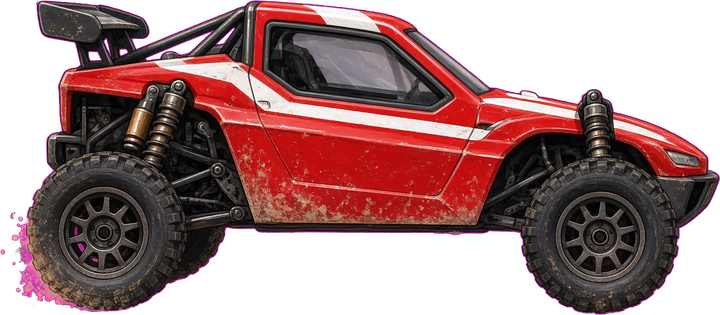
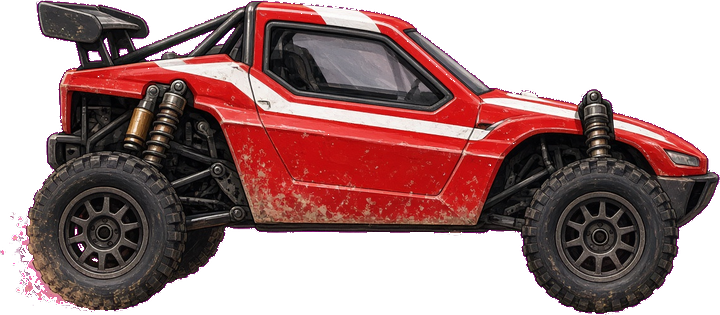
Fix RC Rally wheels (opaque/symmetric from photo), remove lock beam, restore dirt-follow tilt
Cache-bust ?v=20260925wheels2. RCRallyJump only.

diff --git a/games/RCRallyJump/engine.js b/games/RCRallyJump/engine.js
@@ -1,4 +1,4 @@
-const VERSION = "3.8";
+const VERSION = "3.9";
 const VIEW_W = 960;
 const VIEW_H = 540;
 const PLAYER_X = 168;
@@ -28,7 +28,7 @@ function wheelSpec(ix, iy, imgR) {
   };
 }
 const REAR = wheelSpec(100, 232, 82);
-const FRONT = wheelSpec(600, 234, 80);
+const FRONT = wheelSpec(600, 234, 82);
 const WHEELS = [REAR, FRONT];
 const CRAWLER_W = 1440;
 const CRAWLER_H = 630;
@@ -172,6 +172,16 @@ function rampLift(sim, worldX) {
 }
 function surfaceY(sim, worldX) {
   return groundY(worldX) - rampLift(sim, worldX);
+}
+function surfacePitchDeg(sim) {
+  // Line Rider-style: pitch of dirt under the two contact patches (degrees, nose-up negative in canvas Y-down).
+  const g0 = wheelGeom(sim, 0);
+  const g1 = wheelGeom(sim, 1);
+  const x0 = sim.scroll + PLAYER_X + CAR_W / 2 + g0.lx;
+  const x1 = sim.scroll + PLAYER_X + CAR_W / 2 + g1.lx;
+  const y0 = surfaceY(sim, x0);
+  const y1 = surfaceY(sim, x1);
+  return Math.atan2(y1 - y0, Math.max(8, x1 - x0)) * 180 / Math.PI;
 }
 function createSim(best = 0) {
   const sim = {
@@ -494,16 +504,28 @@ function stepChassis(sim, dt, input) {
     if (sim.vy > 0) sim.vy = Math.min(sim.vy * 0.2, 80);
     sim.vy -= Math.min(lift, 6) * 22;
   }
+  // Terrain pitch (Line Rider): when wheels kiss dirt, lean with the surface; aim still steers in air / on dirt.
+  const pitch = contacts > 0 ? surfacePitchDeg(sim) : 0;
   if (aiming) {
     const err = wrapDeg(input.aim - sim.rot);
-    sim.av += clamp(err * 14 - sim.av * 5, -520, 520) * dt;
-    if (contacts > 0) sim.av *= Math.exp(-dt * 1.6);
+    sim.av += clamp(err * 16 - sim.av * 4.2, -560, 560) * dt;
+    if (contacts > 0) {
+      // Blend a little track camber in so aiming on dirt still feels planted.
+      const camber = wrapDeg(pitch - sim.rot);
+      sim.av += clamp(camber * 6 - sim.av * 0.8, -180, 180) * dt;
+      sim.av *= Math.exp(-dt * 1.1);
+    }
   } else if (contacts === 0) {
     const ang = wrapDeg(sim.rot);
     if (Math.abs(ang) < 85) sim.av += (-ang * 48 - sim.av * 13) * dt;
     else sim.av *= Math.exp(-dt * 1.4);
   } else {
-    sim.av *= Math.exp(-dt * (contacts === 2 ? 8 : 2.4));
+    // Follow the dirt curve / off-camber instead of freezing flat.
+    const err = wrapDeg(pitch - sim.rot);
+    const grip = contacts === 2 ? 1 : 0.55;
+    sim.av += clamp(err * (22 * grip) - sim.av * (3.2 * grip), -420, 420) * dt;
+    // Soft settle — keep some lean authority (was exp*8 which killed tilt).
+    sim.av *= Math.exp(-dt * (contacts === 2 ? 3.2 : 1.6));
   }
   sim.av = clamp(sim.av, -360, 360);
   sim.rot = wrapDeg(sim.rot + sim.av * dt);
@@ -512,6 +534,18 @@ function stepChassis(sim, dt, input) {
     return true;
   }
   sim.grounded = contacts > 0;
+  if (contacts === 2 && !aiming) {
+    // Settle chassis onto both contact patches so it rides the dirt instead of skating flat.
+    const g0 = wheelGeom(sim, 0);
+    const g1 = wheelGeom(sim, 1);
+    const p0 = wheelWorld(sim, g0);
+    const p1 = wheelWorld(sim, g1);
+    const want0 = surfaceY(sim, p0.x) - g0.r;
+    const want1 = surfaceY(sim, p1.x) - g1.r;
+    const wantY = (want0 + want1) * 0.5 - CAR_H / 2;
+    sim.y += (wantY - sim.y) * Math.min(1, dt * 14);
+    if (sim.vy > 0) sim.vy *= 0.35;
+  }
   return false;
 }
 function wheelWorld(sim, w) {
@@ -539,10 +573,13 @@ function coupleWheels(sim, dt) {
     loaded = true;
     const R = Math.max(4, g.r);
     const I = 0.28 * R * R;
+    const targetOmega = sim.speed / R;
     const slip = sim.speed - sim.wheelOmega[i] * R;
     const force = clamp(slip * load / 0.72, -260, 260);
     sim.speed -= force * dt * 0.2;
+    // Pull toward rolling contact so both wheels spin in sync with road speed (symmetric animation).
     sim.wheelOmega[i] += force * R / I * dt;
+    sim.wheelOmega[i] += (targetOmega - sim.wheelOmega[i]) * Math.min(1, dt * (9 * load));
     if (i === 0) sim.speed += (cruise - sim.speed) * dt * (sim.recover > 0 ? 6.5 : 1.35) * load;
     sim.wheelAng[i] += sim.wheelOmega[i] * dt;
     if (Math.abs(slip) > 55 && load > 0.3 && sim.dust.length < 80 && hash(sim.time * 900 + i * 19) > 0.62) {
@@ -1104,24 +1141,11 @@ function drawDrone(ctx, sim, d, art) {
   const p = dronePos(sim, d);
   const sx = p.x - sim.scroll;
   if (sx < -80 || sx > VIEW_W + 80) return;
-  if (d.kind === "lock") {
-    ctx.fillStyle = "rgba(120, 24, 16, 0.35)";
-    ctx.fillRect(sx - 8, 0, 16, VIEW_H);
-    ctx.fillStyle = `rgba(240, 180, 41, ${0.45 + Math.sin(sim.time * 8) * 0.35})`;
-    ctx.fillRect(sx - 2, 0, 4, VIEW_H);
-  }
+  // Lock drones used to paint a full-height red/amber beam (looked like a rogue floating rectangle).
+  // Keep the drone body only; aiming stays via drone position / shots.
   ctx.save();
   ctx.translate(sx, p.y);
   ctx.rotate(Math.sin(d.spin) * 0.05);
-  if (d.kind === "seek") {
-    ctx.strokeStyle = "#e4572e";
-    ctx.lineWidth = 2;
-    ctx.strokeRect(-24, -14, 48, 28);
-  } else if (d.kind === "pattern") {
-    ctx.strokeStyle = "#f0b429";
-    ctx.lineWidth = 2;
-    ctx.strokeRect(-24, -14, 48, 28);
-  }
   const img = art.drone;
   if (img && img.complete && img.naturalWidth > 0) {
     ctx.drawImage(img, -28, -12, 56, 22);
@@ -1227,6 +1251,11 @@ function spinWheel(ctx, sim, index, img) {
   ctx.translate(g.lx, g.ly + g.squash * g.drawR * 0.05);
   ctx.rotate(ang);
   ctx.scale(bulge, flat);
+  // Opaque disc under the sprite so spoke/tread cutouts stay solid (no sky/dirt through the hub).
+  ctx.beginPath();
+  ctx.arc(0, 0, g.drawR * 0.98, 0, Math.PI * 2);
+  ctx.fillStyle = "#14110f";
+  ctx.fill();
   ctx.drawImage(img, -g.drawR, -g.drawR, g.drawR * 2, g.drawR * 2);
   ctx.restore();
 }

diff --git a/games/RCRallyJump/standalone.js b/games/RCRallyJump/standalone.js
@@ -14,7 +14,7 @@ import {
   wheelPace,
   MISSILE_MAX,
   MISSILE_RELOAD
-} from "./engine.js?v=20260925pace5";
+} from "./engine.js?v=20260925wheels2";
 var BEST_KEY = "rc-rally-jump-best";
 var RIG_KEY = "rc-rally-rig";
 var TUNE_KEY = "rc-rally-tune";
@@ -168,16 +168,16 @@ function boot() {
     pixel: new Image(),
     pixelWheel: new Image()
   };
-  art.buggy.src = artUrl("buggy.png");
-  art.body.src = artUrl("buggy-body.png");
-  art.wheelRear.src = artUrl("wheel-rear.png");
-  art.wheelFront.src = artUrl("wheel-front.png");
+  art.buggy.src = artUrl("buggy.png") + "?v=20260925wheels2";
+  art.body.src = artUrl("buggy-body.png") + "?v=20260925wheels2";
+  art.wheelRear.src = artUrl("wheel-rear.png") + "?v=20260925wheels2";
+  art.wheelFront.src = artUrl("wheel-front.png") + "?v=20260925wheels2";
   art.drone.src = artUrl("drone.png");
   art.sky.src = artUrl("sky.jpg");
   art.crawler.src = artUrl("crawler-body.png") + "?v=20260925render";
-  art.crawlerWheel.src = artUrl("crawler-wheel.png") + "?v=20260925render";
+  art.crawlerWheel.src = artUrl("crawler-wheel.png") + "?v=20260925wheels2";
   art.pixel.src = artUrl("pixel-body.png") + "?v=20260925pixel";
-  art.pixelWheel.src = artUrl("pixel-wheel.png") + "?v=20260925pixel";
+  art.pixelWheel.src = artUrl("pixel-wheel.png") + "?v=20260925wheels2";
   const rigBtns = [...document.querySelectorAll("#rigs .rig")];
   const picked = el("picked");
   const paintRigs = () => {

diff --git a/games/RCRallyJump/index.html b/games/RCRallyJump/index.html
@@ -452,6 +452,6 @@
       <button type="button" class="reset" id="tune-reset" data-ui>Reset</button>
     </div>
   </div>
-  <script type="module" src="./standalone.js?v=20260925pace5"></script>
+  <script type="module" src="./standalone.js?v=20260925wheels2"></script>
 </body>
 </html>
